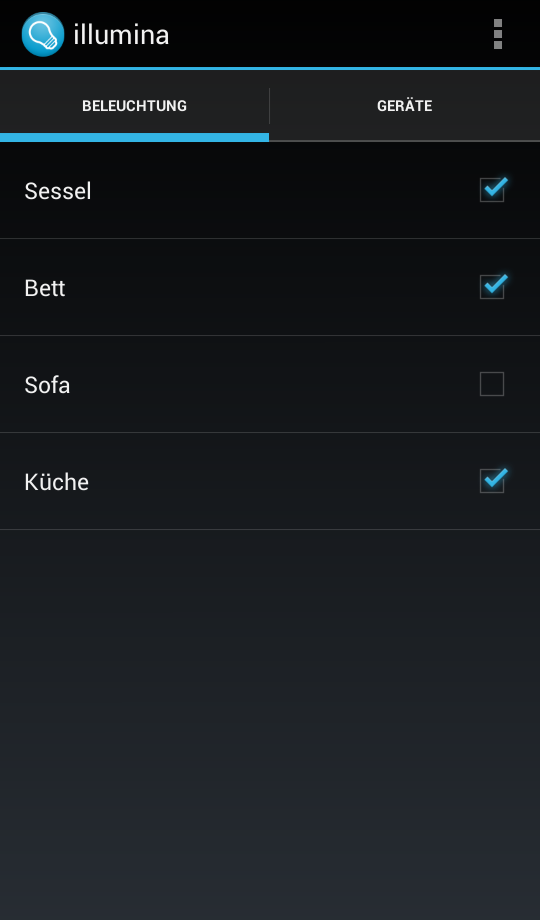
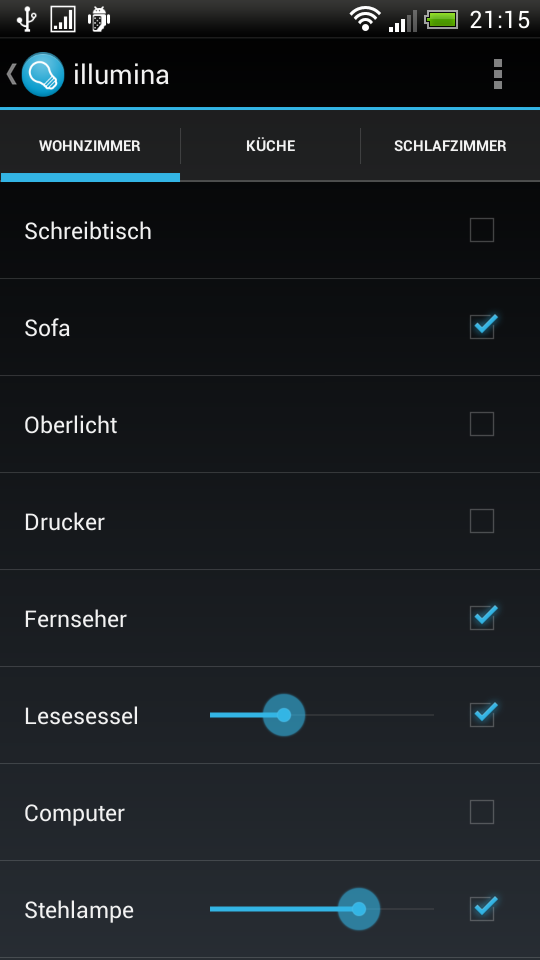
small language corrections, store description and screenshots

diff --git a/resources/store/description-en.md b/resources/store/description-en.md
@@ -7,7 +7,7 @@ the brightness of your dimmable lights.
 Highlights:
 * native Android App
 * easy configuration
-* elegant dark Holo design
+* multiple designs
 * high performance pilight connection
 * distinguishes between places
 * controls your radio outlets
@@ -18,5 +18,5 @@ If you have questions regarding pilight or the list of compatible devices,
 consult the wiki behind http://wiki.pilight.org
 
 Important!
-illumina only works in conjunction with a pilight-daemon with a version number
+illumina only works in conjunction with a pilight-daemon and a version
 greater or equal 2.0 running within your network.

diff --git a/resources/store/description-de.md b/resources/store/description-de.md
@@ -7,11 +7,11 @@ die Helligkeit deiner Dimmer.
 Highlights:
 * native Android App
 * einfachste Konfiguration
-* elegantes dunkles Holo Design
+* verschiedene Designs
 * performante Verbindung zu pilight
 * Unterscheidung der festgelegten Orte
 * volle Kontrolle deiner Funksteckdosen
-* Steuerung von kompatiblen Dimmern
+* Steuerung kompatibler Dimmern
 * Reaktion auf Änderungen anderer Quellen
 
 Bei Fragen zu pilight oder kompatiblen Geräten, konsultiere das
